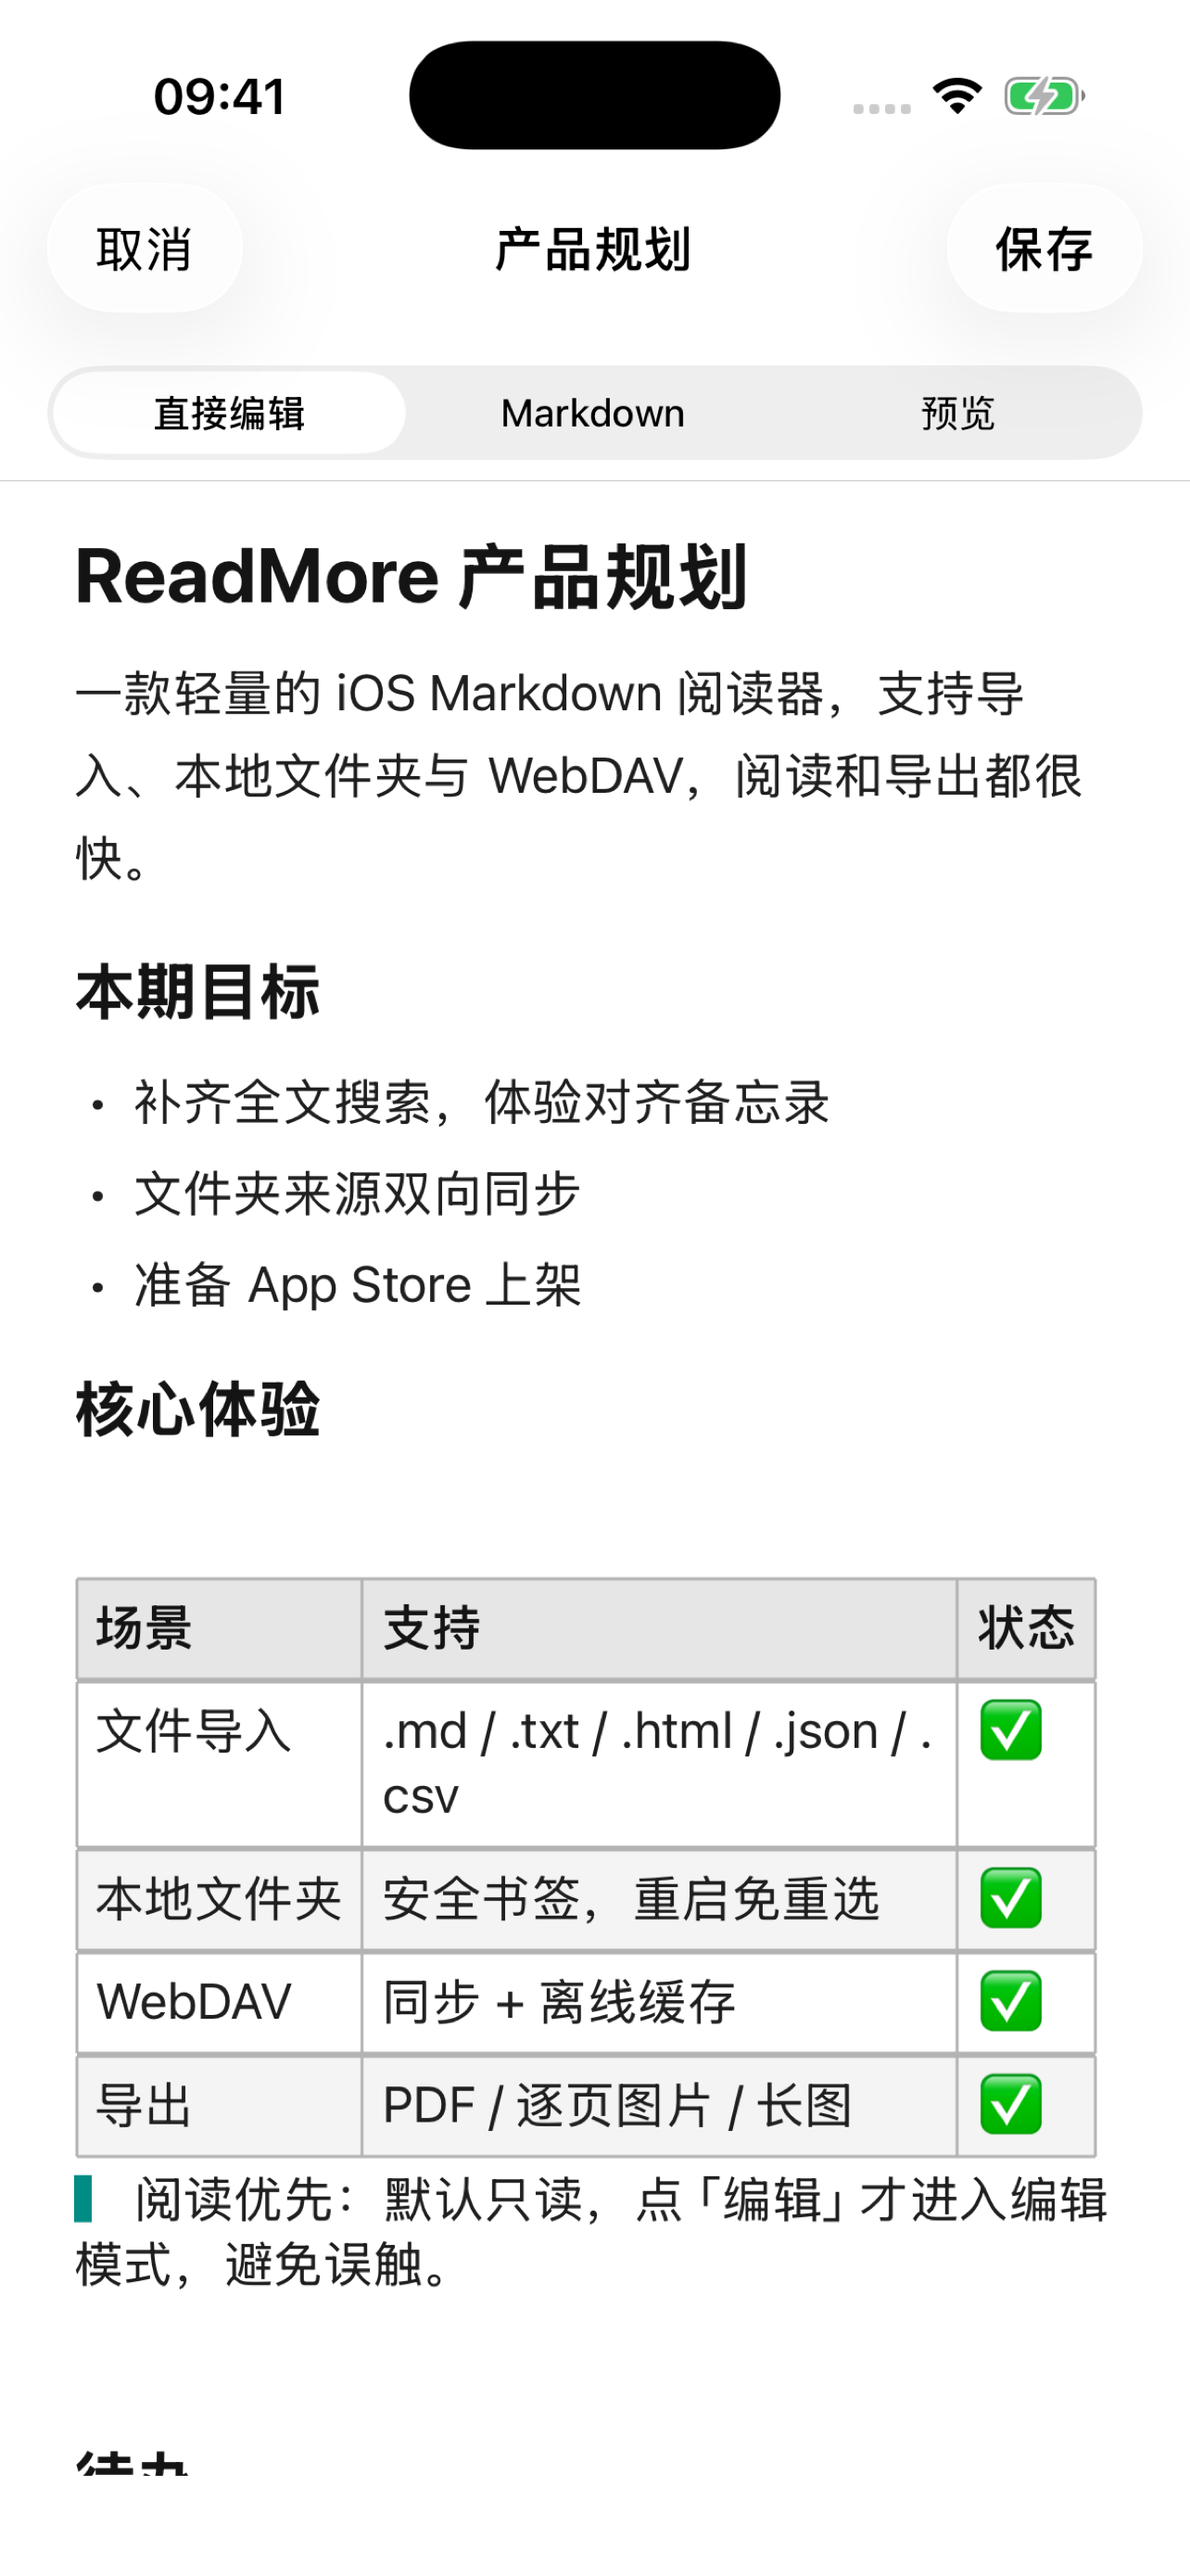
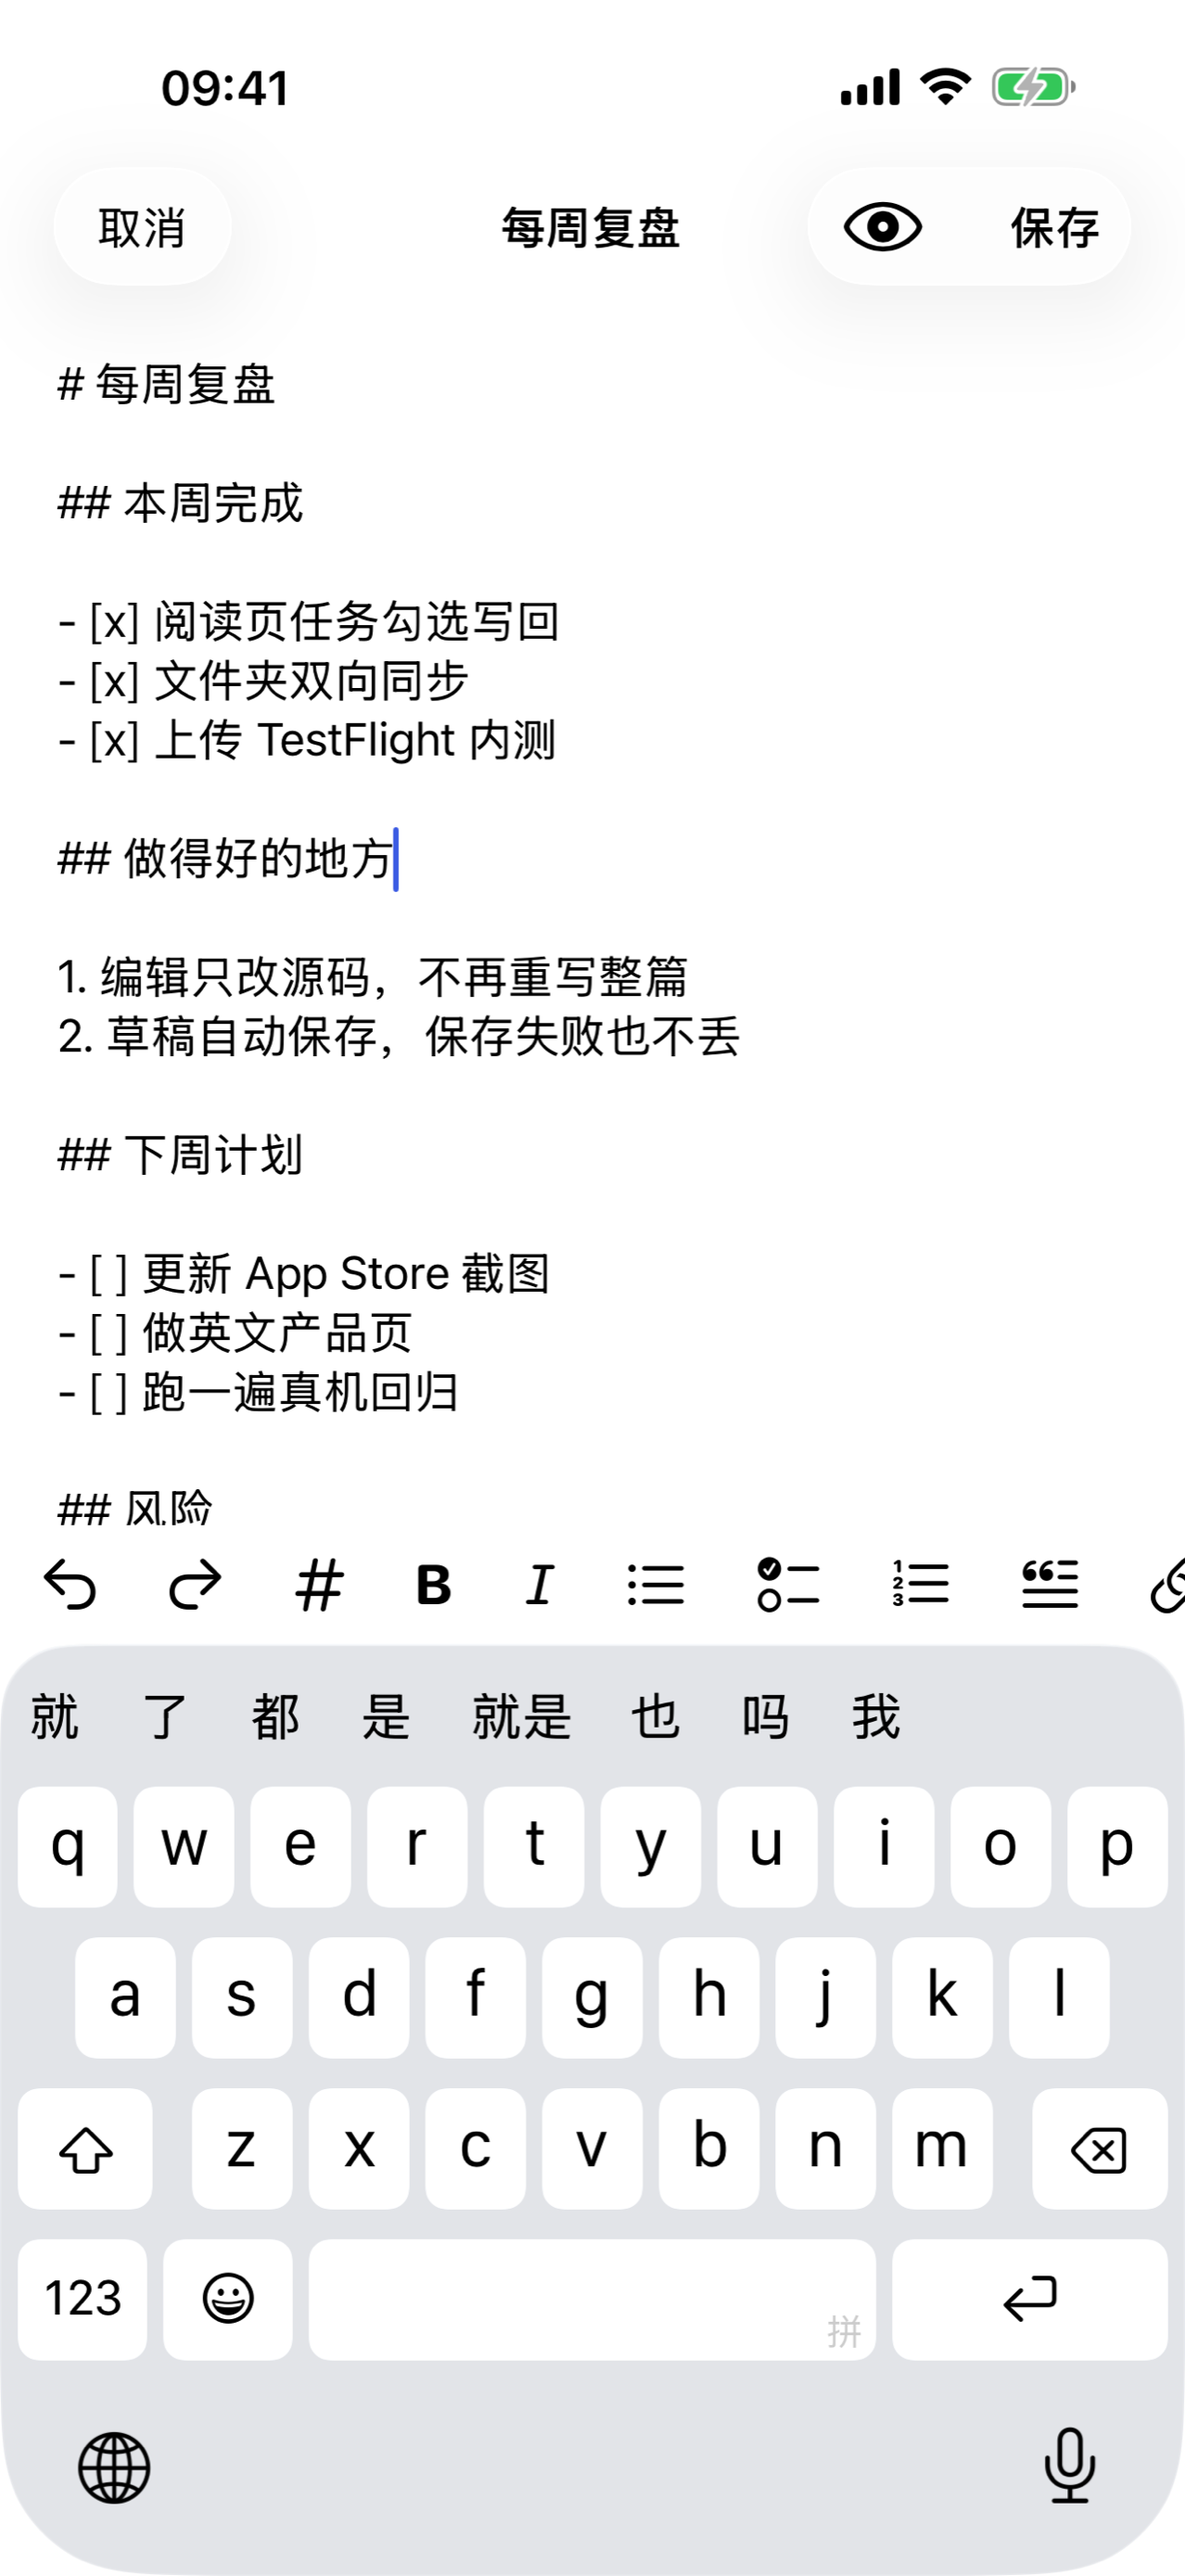
Update copy and screenshots for 1.0.6: quick editing, drop chat logs

diff --git a/index.html b/index.html
@@ -28,10 +28,10 @@
     <main>
       <section class="hero">
         <div>
-          <p class="eyebrow"><span data-lang-block="zh">轻量、离线优先的 Markdown 阅读器</span><span data-lang-block="en">A lightweight, offline-first Markdown reader</span></p>
+          <p class="eyebrow"><span data-lang-block="zh">手机上的 Markdown 阅读与快捷编辑</span><span data-lang-block="en">Read and quickly edit Markdown on your phone</span></p>
           <h1>HashRead</h1>
-          <p class="lead" data-lang-block="zh">导入 Markdown、聊天记录和文本文件，或连接本地文件夹与 WebDAV，离线阅读、编辑并导出 PDF 或图片。</p>
-          <p class="lead" data-lang-block="en">Import Markdown, chat logs, and text files, or connect local folders and WebDAV servers for offline reading, editing, and PDF or image export.</p>
+          <p class="lead" data-lang-block="zh">打开本地文件夹、iCloud 或 WebDAV 里的 Markdown，离线阅读；点一下勾选任务、随手改几行，原文件原样保存。</p>
+          <p class="lead" data-lang-block="en">Open Markdown from local folders, iCloud, or WebDAV and read offline. Tick a task or fix a few lines — your original file is saved as-is.</p>
           <div class="cta-row">
             <a class="button primary" href="https://apps.apple.com/app/hashread/id6800261562"><span data-lang-block="zh">前往 App Store 下载</span><span data-lang-block="en">Download on the App Store</span></a>
             <a class="button" href="support.html"><span data-lang-block="zh">获取支持</span><span data-lang-block="en">Get Support</span></a>
@@ -51,22 +51,22 @@
 
       <section class="feature-band">
         <div class="section">
-          <h2><span data-lang-block="zh">读、整理、导出，都围绕你的文档。</span><span data-lang-block="en">Read, organize, and export around your documents.</span></h2>
+          <h2><span data-lang-block="zh">读得舒服，改得顺手。</span><span data-lang-block="en">Comfortable to read, quick to edit.</span></h2>
           <div class="feature-grid">
             <article class="feature">
               <div class="feature-mark"></div>
-              <h3><span data-lang-block="zh">多来源导入</span><span data-lang-block="en">Multiple sources</span></h3>
-              <p><span data-lang-block="zh">导入文件、本地文件夹，或连接 WebDAV 服务器，随时随地离线阅读。</span><span data-lang-block="en">Import files, add local folders, or connect WebDAV servers and read offline anywhere.</span></p>
+              <h3><span data-lang-block="zh">为阅读而排版</span><span data-lang-block="en">Built for reading</span></h3>
+              <p><span data-lang-block="zh">表格、代码高亮、脚注、front matter、[[双链]] 跳转和文内查找；本地文件夹、iCloud、WebDAV 随时离线阅读。</span><span data-lang-block="en">Tables, code highlighting, footnotes, front matter, [[wikilinks]], and find in document. Read offline from local folders, iCloud, or WebDAV.</span></p>
             </article>
             <article class="feature">
               <div class="feature-mark"></div>
-              <h3><span data-lang-block="zh">聊天记录渲染</span><span data-lang-block="en">Chat log rendering</span></h3>
-              <p><span data-lang-block="zh">把微信 / iMessage 导出文件渲染成气泡对话，也可一键转为 Markdown。</span><span data-lang-block="en">Render WeChat and iMessage exports as bubbles, or convert them to Markdown in one tap.</span></p>
+              <h3><span data-lang-block="zh">快捷编辑</span><span data-lang-block="en">Quick edits</span></h3>
+              <p><span data-lang-block="zh">阅读时点一下就勾选任务；编辑器带 Markdown 键盘工具栏、列表自动续行和草稿自动保存。只改你动过的地方。</span><span data-lang-block="en">Tick tasks right in the reader. The editor has a Markdown keyboard toolbar, list continuation, and auto-saved drafts — only what you change is changed.</span></p>
             </article>
             <article class="feature">
               <div class="feature-mark"></div>
-              <h3><span data-lang-block="zh">导出与本地优先</span><span data-lang-block="en">Export &amp; local-first</span></h3>
-              <p><span data-lang-block="zh">导出 PDF、逐页图片或长图；数据保存在本机或你的 iCloud，无需登录、不含广告。</span><span data-lang-block="en">Export PDFs, page images, or long images. Data stays on device or in your iCloud — no login, no ads.</span></p>
+              <h3><span data-lang-block="zh">融入系统，本地优先</span><span data-lang-block="en">Fits your system, local-first</span></h3>
+              <p><span data-lang-block="zh">快捷指令追加笔记、Spotlight 搜索文档，导出 PDF 或长图；数据保存在本机或你的 iCloud，无需登录、不含广告。</span><span data-lang-block="en">Append notes with Shortcuts, find documents in Spotlight, export PDFs or long images. Data stays on device or in your iCloud — no login, no ads.</span></p>
             </article>
           </div>
         </div>

diff --git a/support.html b/support.html
@@ -44,7 +44,8 @@
           <li>开启 iCloud 同步后，文库、导入文件和生成记录会自动同步到你的个人 iCloud。</li>
           <li>WebDAV 文档需同步或打开下载后才能离线阅读；未缓存内容需要网络。</li>
           <li>导出功能会把 PDF 或图片写入缓存或保存到相册，应用不会读取你的相册内容。</li>
-          <li>聊天记录请先通过电脑端工具导出，再使用文件导入。</li>
+          <li>阅读页的任务框点一下即可勾选，只修改那一个字符并写回原文件；其余修改请点「编辑」。</li>
+          <li>快捷指令里可以使用「追加到文档」「新建文档」「打开文档」。</li>
           <li>当前版本不提供账号登录、社区发布或举报功能，也不含广告。</li>
         </ul>
       </section>
@@ -56,7 +57,8 @@
           <li>With iCloud sync enabled, your library, imported files, and generated records sync automatically to your personal iCloud.</li>
           <li>WebDAV documents must be synced or opened before they can be read offline; uncached content needs a network connection.</li>
           <li>Export writes PDFs or images to the cache or saves them to Photos. The app does not read your photo library.</li>
-          <li>Export chat logs on a computer first, then import the file into HashRead.</li>
+          <li>Tap a task checkbox in the reader to tick it; only that character is written back to the file. For other changes, tap Edit.</li>
+          <li>In Shortcuts, use Append to Document, New Markdown Document, or Open Document.</li>
           <li>This version does not provide account sign-in, community publishing, or reporting features, and contains no ads.</li>
         </ul>
       </section>
